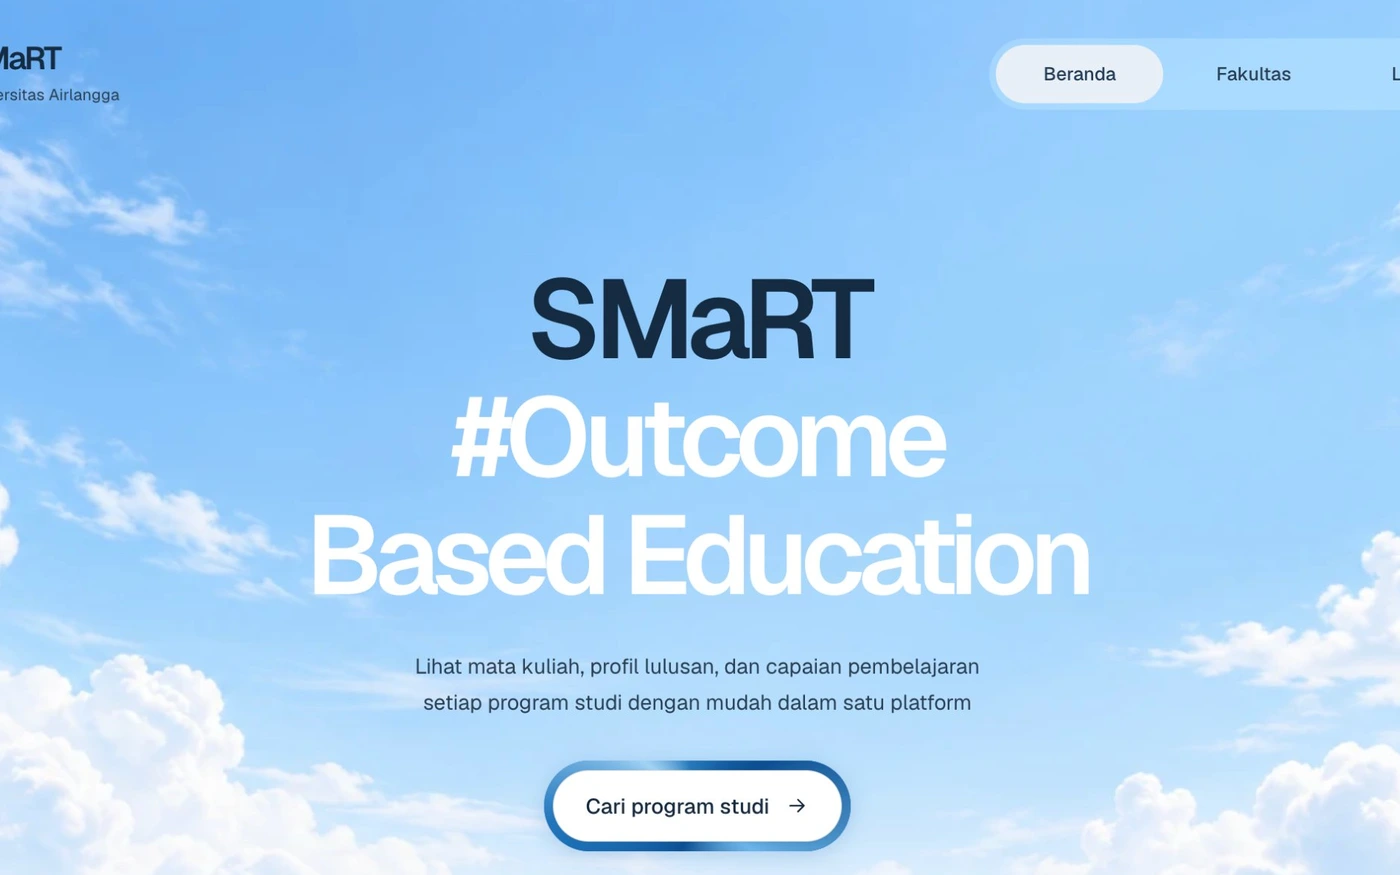
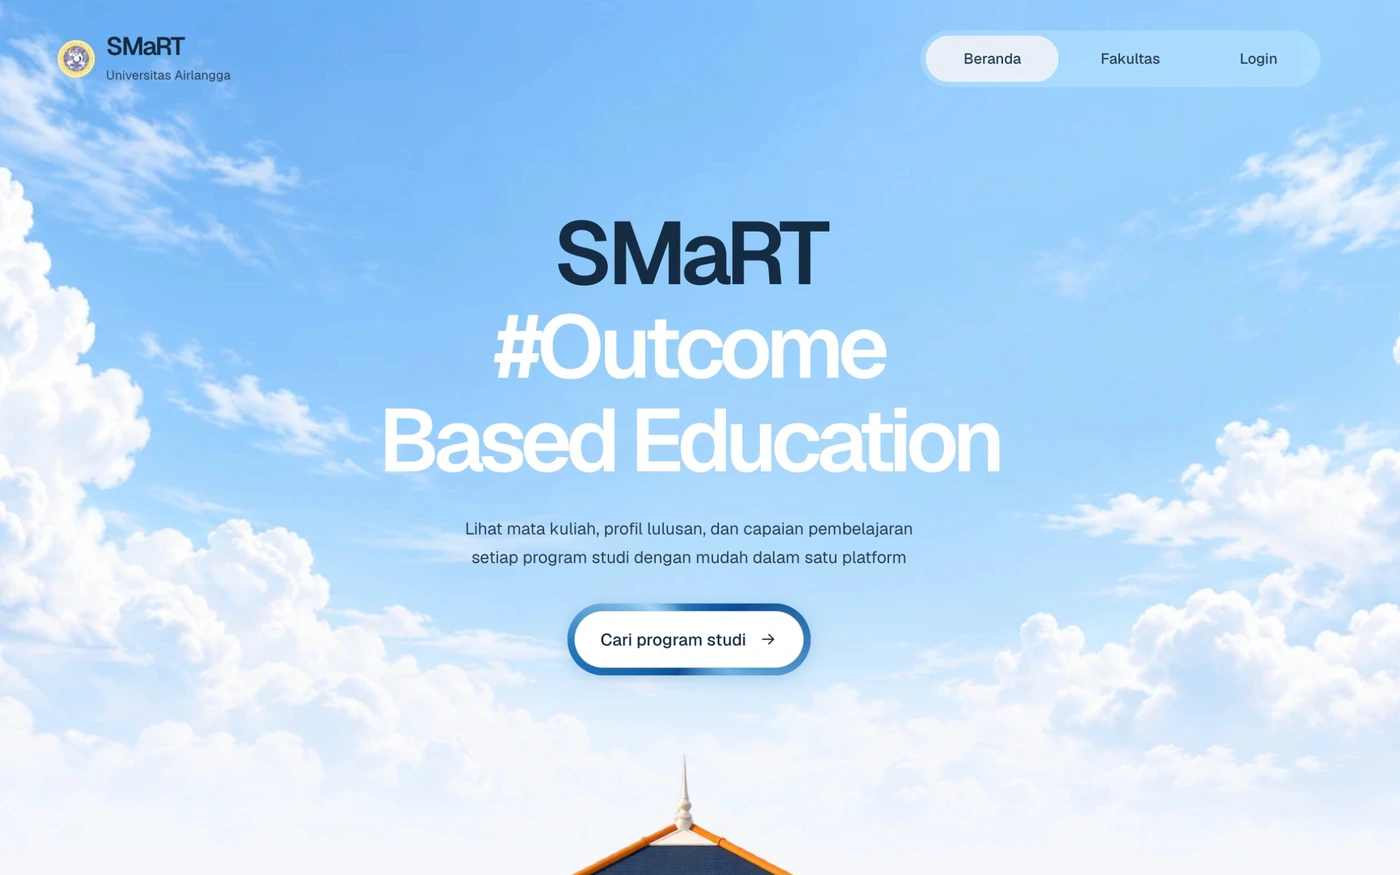
fix: update image dimensions and aspect ratio in ProjectCard component

diff --git a/src/components/ProjectCard.tsx b/src/components/ProjectCard.tsx
@@ -60,11 +60,7 @@ export default function ProjectCard({ project }: { project: Project }) {
           {project.image1 ? (
             <div
               className="absolute left-1/2 top-1/2 z-10 -translate-x-1/2 -translate-y-1/2"
-              style={
-                (project.image1Size?.[0] ?? 1) / (project.image1Size?.[1] ?? 1) >= 1
-                  ? { width: "70%" }
-                  : { width: "70%", height: 210 }
-              }
+              style={{ width: "70%", aspectRatio: "16 / 10" }}
             >
               <Image src={project.image1} alt={`${project.title} preview`} width={project.image1Size?.[0] ?? 0} height={project.image1Size?.[1] ?? 0} sizes="(max-width: 700px) 95vw, 900px" quality={95} className="h-full w-full rounded-lg border border-[#141414] object-cover object-top" />
             </div>

diff --git a/src/data/content.ts b/src/data/content.ts
@@ -76,7 +76,7 @@ export const projects: Project[] = [
     icon: "/work/smart-unair/icon.webp",
     image1: "/work/smart-unair/desktop.webp",
     image2: "/work/smart-unair/shot-2.webp",
-    image1Size: [1400, 788],
+    image1Size: [1400, 875],
     image2Size: [1400, 1400],
   },
   {
